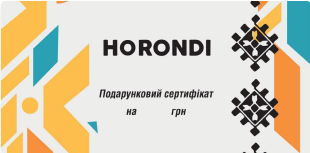
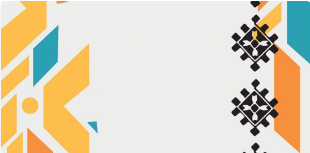
changed certificate and added typography

diff --git a/src/pages/certificates/certificate/certificate.js b/src/pages/certificates/certificate/certificate.js
@@ -3,15 +3,20 @@ import PropTypes from 'prop-types';
 import { Typography } from '@material-ui/core';
 
 import { useStyles } from './certificate.styles';
+import { config } from '../../../configs';
 
 const Certificate = ({ name, value }) => {
   const styles = useStyles();
+  const { TITLE_CERTIFICATE, CERTIFICATE_TEXT_WITH_VALUE } = config.certificate;
 
   return (
     <div className={styles.wrapper}>
       <div className={styles.certificate}>
+        <Typography variant='h5' className={styles.title}>
+          {TITLE_CERTIFICATE}
+        </Typography>
         <Typography variant='body1' className={styles.value}>
-          {value}
+          {CERTIFICATE_TEXT_WITH_VALUE(value)}
         </Typography>
       </div>
       <Typography paragraph className={styles.name}>

diff --git a/src/pages/certificates/certificate/certificate.styles.js b/src/pages/certificates/certificate/certificate.styles.js
@@ -15,13 +15,21 @@ export const useStyles = makeStyles(() => ({
     backgroundRepeat: 'no-repeat',
     position: 'relative'
   },
+  title: {
+    position: 'absolute',
+    top: '8px',
+    left: '45px',
+    fontSize: '11px'
+  },
   value: {
     position: 'absolute',
-    top: '45px',
-    left: '62px',
+    top: '30px',
+    left: '53px',
+    width: '35px',
     fontWeight: '700',
     fontSize: '5px',
-    lineHeight: '8px',
+    lineHeight: '9px',
+    textAlign: 'center',
     fontStyle: 'italic'
   },
   name: {

diff --git a/src/configs/index.js b/src/configs/index.js
@@ -83,6 +83,7 @@ import {
   inputNames
 } from './news-form-helpers';
 import { imageUploadSlideInputsId } from './home-page-slide-helpers';
+import certificate from './certificate';
 
 export const config = {
   fetchPolicy: 'no-cache',
@@ -347,6 +348,7 @@ export const config = {
   errorStatuses,
   userErrorMessages,
   materialAboutErrorMessages,
+  certificate,
   RESET: 'reset'
 };
 export const inputTypes = {

diff --git a/src/configs/certificate.js b/src/configs/certificate.js
@@ -1,0 +1,7 @@
+const certificate = {
+  TITLE_CERTIFICATE: 'HORONDI',
+  CERTIFICATE_TEXT_WITH_VALUE: (value) =>
+    `Подарунковий сертифікат на ${value} грн`
+};
+
+export default certificate;
